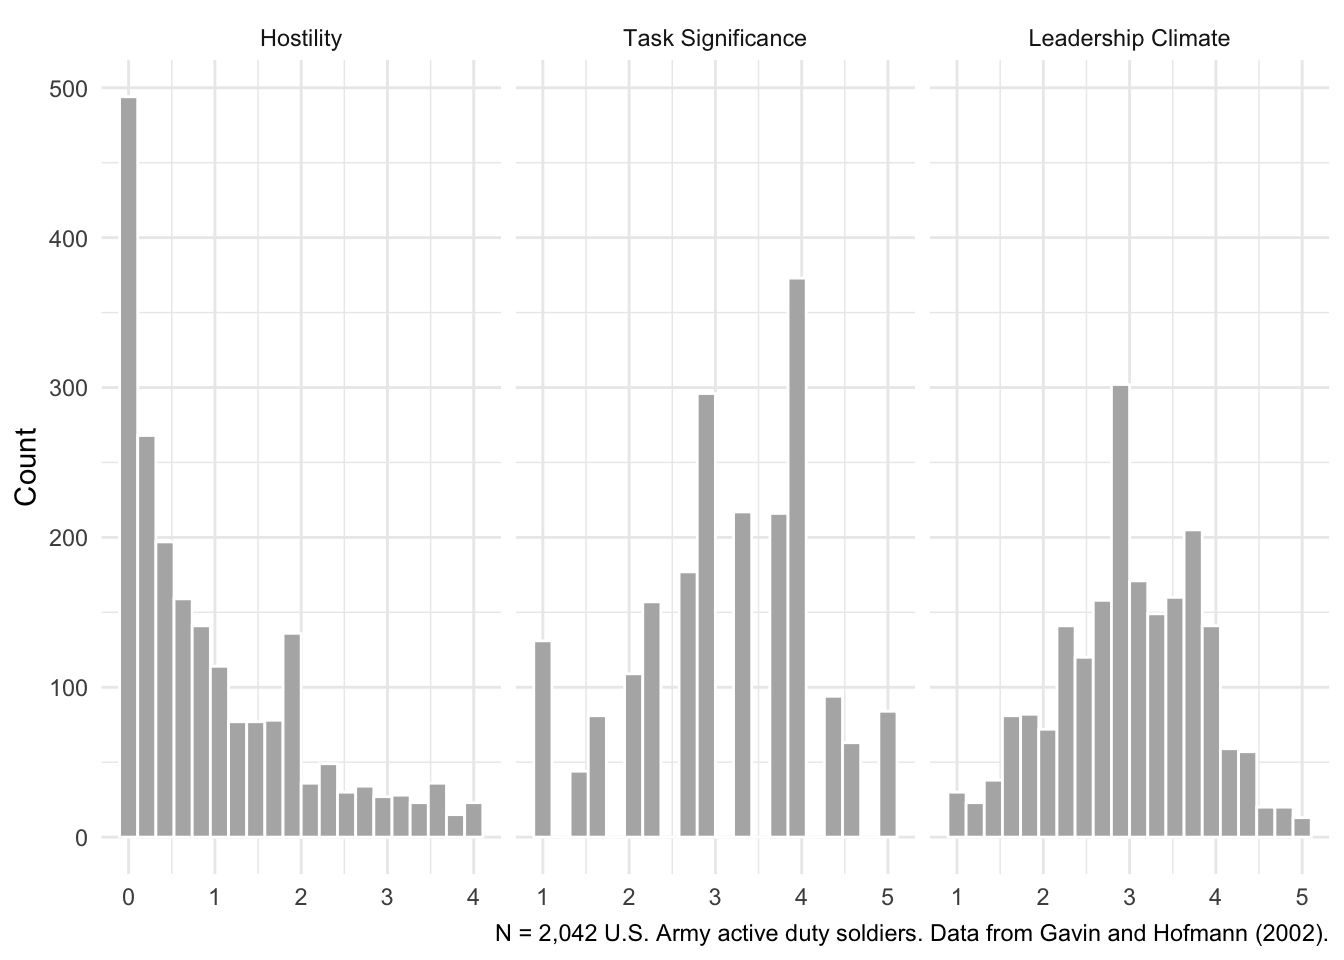
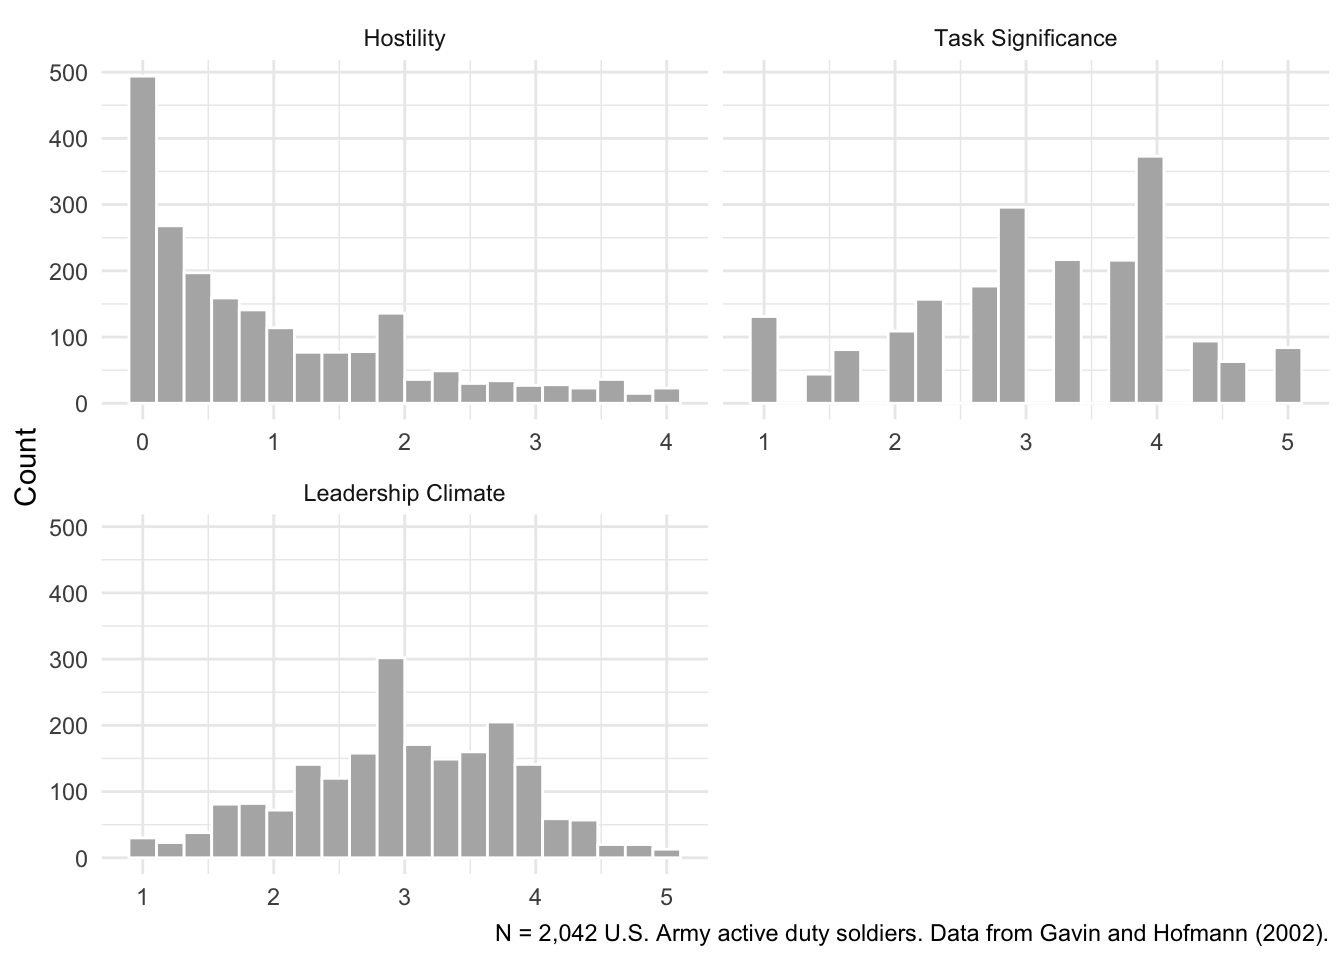
updated plot

diff --git a/docs/04-random-intercept.html b/docs/04-random-intercept.html
@@ -476,7 +476,7 @@ GHOSTILE  0.01</code></pre>
 <span>                            labels <span class="op">=</span> <span class="fu"><a href="https://rdrr.io/r/base/c.html">c</a></span><span class="op">(</span><span class="st">"Hostility"</span>, <span class="st">"Task Significance"</span>, <span class="st">"Leadership Climate"</span><span class="op">)</span><span class="op">)</span><span class="op">)</span> <span class="op"><a href="https://magrittr.tidyverse.org/reference/pipe.html">%&gt;%</a></span></span>
 <span>  <span class="fu"><a href="https://ggplot2.tidyverse.org/reference/ggplot.html">ggplot</a></span><span class="op">(</span><span class="fu"><a href="https://ggplot2.tidyverse.org/reference/aes.html">aes</a></span><span class="op">(</span>x <span class="op">=</span> <span class="va">value</span><span class="op">)</span><span class="op">)</span> <span class="op">+</span></span>
 <span>  <span class="fu"><a href="https://ggplot2.tidyverse.org/reference/geom_histogram.html">geom_histogram</a></span><span class="op">(</span>bins <span class="op">=</span> <span class="fl">20</span>, fill <span class="op">=</span> <span class="st">"grey70"</span>, color <span class="op">=</span> <span class="st">"white"</span><span class="op">)</span> <span class="op">+</span></span>
-<span>  <span class="fu"><a href="https://ggplot2.tidyverse.org/reference/facet_wrap.html">facet_wrap</a></span><span class="op">(</span><span class="op">~</span> <span class="va">variable</span>, scales <span class="op">=</span> <span class="st">"free_x"</span>, nrow <span class="op">=</span> <span class="fl">1</span><span class="op">)</span> <span class="op">+</span></span>
+<span>  <span class="fu"><a href="https://ggplot2.tidyverse.org/reference/facet_wrap.html">facet_wrap</a></span><span class="op">(</span><span class="op">~</span> <span class="va">variable</span>, scales <span class="op">=</span> <span class="st">"free_x"</span>, nrow <span class="op">=</span> <span class="fl">2</span><span class="op">)</span> <span class="op">+</span></span>
 <span>  <span class="fu"><a href="https://ggplot2.tidyverse.org/reference/labs.html">labs</a></span><span class="op">(</span>x <span class="op">=</span> <span class="cn">NULL</span>, y <span class="op">=</span> <span class="st">"Count"</span>,</span>
 <span>       caption <span class="op">=</span> <span class="st">"N = 2,042 U.S. Army active duty soldiers. Data from Gavin and Hofmann (2002)."</span><span class="op">)</span> <span class="op">+</span></span>
 <span>  <span class="fu"><a href="https://ggplot2.tidyverse.org/reference/ggtheme.html">theme_minimal</a></span><span class="op">(</span><span class="op">)</span></span></code><button title="Copy to Clipboard" class="code-copy-button"><i class="bi"></i></button></pre></div>
@@ -815,42 +815,42 @@ Signif. codes:  0 '***' 0.001 '**' 0.01 '*' 0.05 '.' 0.1 ' ' 1</code></pre>
 
     <script src="https://cdn.jsdelivr.net/gh/vincentarelbundock/tinytable@main/inst/tinytable.js"></script><script>
       // Create table-specific functions using external factory
-      const tableFns_1c4e0nozrsz871oxdirx = TinyTable.createTableFunctions("tinytable_1c4e0nozrsz871oxdirx");
+      const tableFns_mp9kzvpybpieqtfhqowl = TinyTable.createTableFunctions("tinytable_mp9kzvpybpieqtfhqowl");
       // tinytable span after
       window.addEventListener('load', function () {
           var cellsToStyle = [
             // tinytable style arrays after
-          { positions: [ { i: '25', j: 2 }, { i: '25', j: 3 }, { i: '25', j: 4 }, { i: '25', j: 5 }, { i: '25', j: 6 }, { i: '25', j: 7 } ], css_id: 'tinytable_css_jzqxgp5r2c31ucg3q48s',}, 
-          { positions: [ { i: '18', j: 2 }, { i: '18', j: 3 }, { i: '18', j: 4 }, { i: '18', j: 5 }, { i: '18', j: 6 }, { i: '18', j: 7 } ], css_id: 'tinytable_css_bvvqrrnloquqvd9onz6k',}, 
-          { positions: [ { i: '1', j: 2 }, { i: '2', j: 2 }, { i: '3', j: 2 }, { i: '4', j: 2 }, { i: '5', j: 2 }, { i: '6', j: 2 }, { i: '7', j: 2 }, { i: '8', j: 2 }, { i: '9', j: 2 }, { i: '10', j: 2 }, { i: '11', j: 2 }, { i: '12', j: 2 }, { i: '13', j: 2 }, { i: '14', j: 2 }, { i: '15', j: 2 }, { i: '16', j: 2 }, { i: '17', j: 2 }, { i: '19', j: 2 }, { i: '20', j: 2 }, { i: '21', j: 2 }, { i: '22', j: 2 }, { i: '23', j: 2 }, { i: '24', j: 2 }, { i: '1', j: 3 }, { i: '2', j: 3 }, { i: '3', j: 3 }, { i: '4', j: 3 }, { i: '5', j: 3 }, { i: '6', j: 3 }, { i: '7', j: 3 }, { i: '8', j: 3 }, { i: '9', j: 3 }, { i: '10', j: 3 }, { i: '11', j: 3 }, { i: '12', j: 3 }, { i: '13', j: 3 }, { i: '14', j: 3 }, { i: '15', j: 3 }, { i: '16', j: 3 }, { i: '17', j: 3 }, { i: '19', j: 3 }, { i: '20', j: 3 }, { i: '21', j: 3 }, { i: '22', j: 3 }, { i: '23', j: 3 }, { i: '24', j: 3 }, { i: '1', j: 4 }, { i: '2', j: 4 }, { i: '3', j: 4 }, { i: '4', j: 4 }, { i: '5', j: 4 }, { i: '6', j: 4 }, { i: '7', j: 4 }, { i: '8', j: 4 }, { i: '9', j: 4 }, { i: '10', j: 4 }, { i: '11', j: 4 }, { i: '12', j: 4 }, { i: '13', j: 4 }, { i: '14', j: 4 }, { i: '15', j: 4 }, { i: '16', j: 4 }, { i: '17', j: 4 }, { i: '19', j: 4 }, { i: '20', j: 4 }, { i: '21', j: 4 }, { i: '22', j: 4 }, { i: '23', j: 4 }, { i: '24', j: 4 }, { i: '1', j: 5 }, { i: '2', j: 5 }, { i: '3', j: 5 }, { i: '4', j: 5 }, { i: '5', j: 5 }, { i: '6', j: 5 }, { i: '7', j: 5 }, { i: '8', j: 5 }, { i: '9', j: 5 }, { i: '10', j: 5 }, { i: '11', j: 5 }, { i: '12', j: 5 }, { i: '13', j: 5 }, { i: '14', j: 5 }, { i: '15', j: 5 }, { i: '16', j: 5 }, { i: '17', j: 5 }, { i: '19', j: 5 }, { i: '20', j: 5 }, { i: '21', j: 5 }, { i: '22', j: 5 }, { i: '23', j: 5 }, { i: '24', j: 5 }, { i: '1', j: 6 }, { i: '2', j: 6 }, { i: '3', j: 6 }, { i: '4', j: 6 }, { i: '5', j: 6 }, { i: '6', j: 6 }, { i: '7', j: 6 }, { i: '8', j: 6 }, { i: '9', j: 6 }, { i: '10', j: 6 }, { i: '11', j: 6 }, { i: '12', j: 6 }, { i: '13', j: 6 }, { i: '14', j: 6 }, { i: '15', j: 6 }, { i: '16', j: 6 }, { i: '17', j: 6 }, { i: '19', j: 6 }, { i: '20', j: 6 }, { i: '21', j: 6 }, { i: '22', j: 6 }, { i: '23', j: 6 }, { i: '24', j: 6 }, { i: '1', j: 7 }, { i: '2', j: 7 }, { i: '3', j: 7 }, { i: '4', j: 7 }, { i: '5', j: 7 }, { i: '6', j: 7 }, { i: '7', j: 7 }, { i: '8', j: 7 }, { i: '9', j: 7 }, { i: '10', j: 7 }, { i: '11', j: 7 }, { i: '12', j: 7 }, { i: '13', j: 7 }, { i: '14', j: 7 }, { i: '15', j: 7 }, { i: '16', j: 7 }, { i: '17', j: 7 }, { i: '19', j: 7 }, { i: '20', j: 7 }, { i: '21', j: 7 }, { i: '22', j: 7 }, { i: '23', j: 7 }, { i: '24', j: 7 } ], css_id: 'tinytable_css_9n7nro1qf94fhn4i2drx',}, 
-          { positions: [ { i: '0', j: 2 }, { i: '0', j: 3 }, { i: '0', j: 4 }, { i: '0', j: 5 }, { i: '0', j: 6 }, { i: '0', j: 7 } ], css_id: 'tinytable_css_lkh1dx0119e689sqnfck',}, 
-          { positions: [ { i: '25', j: 1 } ], css_id: 'tinytable_css_ujua03z8e1vy4m3gv84w',}, 
-          { positions: [ { i: '18', j: 1 } ], css_id: 'tinytable_css_5r0eleyovc8awfze6lzc',}, 
-          { positions: [ { i: '1', j: 1 }, { i: '2', j: 1 }, { i: '3', j: 1 }, { i: '4', j: 1 }, { i: '5', j: 1 }, { i: '6', j: 1 }, { i: '7', j: 1 }, { i: '8', j: 1 }, { i: '9', j: 1 }, { i: '10', j: 1 }, { i: '11', j: 1 }, { i: '12', j: 1 }, { i: '13', j: 1 }, { i: '14', j: 1 }, { i: '15', j: 1 }, { i: '16', j: 1 }, { i: '17', j: 1 }, { i: '19', j: 1 }, { i: '20', j: 1 }, { i: '21', j: 1 }, { i: '22', j: 1 }, { i: '23', j: 1 }, { i: '24', j: 1 } ], css_id: 'tinytable_css_ne53nl9ewnasup8t2qvj',}, 
-          { positions: [ { i: '0', j: 1 } ], css_id: 'tinytable_css_51mf6ketp7exxpj74a9w',}, 
+          { positions: [ { i: '25', j: 2 }, { i: '25', j: 3 }, { i: '25', j: 4 }, { i: '25', j: 5 }, { i: '25', j: 6 }, { i: '25', j: 7 } ], css_id: 'tinytable_css_aes35den7bmuetalw7k5',}, 
+          { positions: [ { i: '18', j: 2 }, { i: '18', j: 3 }, { i: '18', j: 4 }, { i: '18', j: 5 }, { i: '18', j: 6 }, { i: '18', j: 7 } ], css_id: 'tinytable_css_3dn8nzv337fe9pwkq0tj',}, 
+          { positions: [ { i: '1', j: 2 }, { i: '2', j: 2 }, { i: '3', j: 2 }, { i: '4', j: 2 }, { i: '5', j: 2 }, { i: '6', j: 2 }, { i: '7', j: 2 }, { i: '8', j: 2 }, { i: '9', j: 2 }, { i: '10', j: 2 }, { i: '11', j: 2 }, { i: '12', j: 2 }, { i: '13', j: 2 }, { i: '14', j: 2 }, { i: '15', j: 2 }, { i: '16', j: 2 }, { i: '17', j: 2 }, { i: '19', j: 2 }, { i: '20', j: 2 }, { i: '21', j: 2 }, { i: '22', j: 2 }, { i: '23', j: 2 }, { i: '24', j: 2 }, { i: '1', j: 3 }, { i: '2', j: 3 }, { i: '3', j: 3 }, { i: '4', j: 3 }, { i: '5', j: 3 }, { i: '6', j: 3 }, { i: '7', j: 3 }, { i: '8', j: 3 }, { i: '9', j: 3 }, { i: '10', j: 3 }, { i: '11', j: 3 }, { i: '12', j: 3 }, { i: '13', j: 3 }, { i: '14', j: 3 }, { i: '15', j: 3 }, { i: '16', j: 3 }, { i: '17', j: 3 }, { i: '19', j: 3 }, { i: '20', j: 3 }, { i: '21', j: 3 }, { i: '22', j: 3 }, { i: '23', j: 3 }, { i: '24', j: 3 }, { i: '1', j: 4 }, { i: '2', j: 4 }, { i: '3', j: 4 }, { i: '4', j: 4 }, { i: '5', j: 4 }, { i: '6', j: 4 }, { i: '7', j: 4 }, { i: '8', j: 4 }, { i: '9', j: 4 }, { i: '10', j: 4 }, { i: '11', j: 4 }, { i: '12', j: 4 }, { i: '13', j: 4 }, { i: '14', j: 4 }, { i: '15', j: 4 }, { i: '16', j: 4 }, { i: '17', j: 4 }, { i: '19', j: 4 }, { i: '20', j: 4 }, { i: '21', j: 4 }, { i: '22', j: 4 }, { i: '23', j: 4 }, { i: '24', j: 4 }, { i: '1', j: 5 }, { i: '2', j: 5 }, { i: '3', j: 5 }, { i: '4', j: 5 }, { i: '5', j: 5 }, { i: '6', j: 5 }, { i: '7', j: 5 }, { i: '8', j: 5 }, { i: '9', j: 5 }, { i: '10', j: 5 }, { i: '11', j: 5 }, { i: '12', j: 5 }, { i: '13', j: 5 }, { i: '14', j: 5 }, { i: '15', j: 5 }, { i: '16', j: 5 }, { i: '17', j: 5 }, { i: '19', j: 5 }, { i: '20', j: 5 }, { i: '21', j: 5 }, { i: '22', j: 5 }, { i: '23', j: 5 }, { i: '24', j: 5 }, { i: '1', j: 6 }, { i: '2', j: 6 }, { i: '3', j: 6 }, { i: '4', j: 6 }, { i: '5', j: 6 }, { i: '6', j: 6 }, { i: '7', j: 6 }, { i: '8', j: 6 }, { i: '9', j: 6 }, { i: '10', j: 6 }, { i: '11', j: 6 }, { i: '12', j: 6 }, { i: '13', j: 6 }, { i: '14', j: 6 }, { i: '15', j: 6 }, { i: '16', j: 6 }, { i: '17', j: 6 }, { i: '19', j: 6 }, { i: '20', j: 6 }, { i: '21', j: 6 }, { i: '22', j: 6 }, { i: '23', j: 6 }, { i: '24', j: 6 }, { i: '1', j: 7 }, { i: '2', j: 7 }, { i: '3', j: 7 }, { i: '4', j: 7 }, { i: '5', j: 7 }, { i: '6', j: 7 }, { i: '7', j: 7 }, { i: '8', j: 7 }, { i: '9', j: 7 }, { i: '10', j: 7 }, { i: '11', j: 7 }, { i: '12', j: 7 }, { i: '13', j: 7 }, { i: '14', j: 7 }, { i: '15', j: 7 }, { i: '16', j: 7 }, { i: '17', j: 7 }, { i: '19', j: 7 }, { i: '20', j: 7 }, { i: '21', j: 7 }, { i: '22', j: 7 }, { i: '23', j: 7 }, { i: '24', j: 7 } ], css_id: 'tinytable_css_mtg0911m7uj2qkp87wfp',}, 
+          { positions: [ { i: '0', j: 2 }, { i: '0', j: 3 }, { i: '0', j: 4 }, { i: '0', j: 5 }, { i: '0', j: 6 }, { i: '0', j: 7 } ], css_id: 'tinytable_css_1yfpsmw1qcy8jinbnule',}, 
+          { positions: [ { i: '25', j: 1 } ], css_id: 'tinytable_css_85ikwwdncubpi3e3p0hj',}, 
+          { positions: [ { i: '18', j: 1 } ], css_id: 'tinytable_css_lqcvkttf2gtk1hrxlj09',}, 
+          { positions: [ { i: '1', j: 1 }, { i: '2', j: 1 }, { i: '3', j: 1 }, { i: '4', j: 1 }, { i: '5', j: 1 }, { i: '6', j: 1 }, { i: '7', j: 1 }, { i: '8', j: 1 }, { i: '9', j: 1 }, { i: '10', j: 1 }, { i: '11', j: 1 }, { i: '12', j: 1 }, { i: '13', j: 1 }, { i: '14', j: 1 }, { i: '15', j: 1 }, { i: '16', j: 1 }, { i: '17', j: 1 }, { i: '19', j: 1 }, { i: '20', j: 1 }, { i: '21', j: 1 }, { i: '22', j: 1 }, { i: '23', j: 1 }, { i: '24', j: 1 } ], css_id: 'tinytable_css_grc27mmvuzfnhu1fxivm',}, 
+          { positions: [ { i: '0', j: 1 } ], css_id: 'tinytable_css_t1yldeeleziz17xsf5e6',}, 
           ];
 
           // Loop over the arrays to style the cells
           cellsToStyle.forEach(function (group) {
               group.positions.forEach(function (cell) {
-                  tableFns_1c4e0nozrsz871oxdirx.styleCell(cell.i, cell.j, group.css_id);
+                  tableFns_mp9kzvpybpieqtfhqowl.styleCell(cell.i, cell.j, group.css_id);
               });
           });
       });
     </script><link rel="stylesheet" href="https://cdn.jsdelivr.net/gh/vincentarelbundock/tinytable@main/inst/tinytable.css">
 <style>
     /* tinytable css entries after */
-    #tinytable_1c4e0nozrsz871oxdirx td.tinytable_css_jzqxgp5r2c31ucg3q48s, #tinytable_1c4e0nozrsz871oxdirx th.tinytable_css_jzqxgp5r2c31ucg3q48s {  position: relative; --border-bottom: 1; --border-left: 0; --border-right: 0; --border-top: 0; --line-color-bottom: var(--tt-line-color); --line-color-left: var(--tt-line-color); --line-color-right: var(--tt-line-color); --line-color-top: var(--tt-line-color); --line-width-bottom: 0.08em; --line-width-left: 0.1em; --line-width-right: 0.1em; --line-width-top: 0.1em; --line-type-bottom: solid; --line-type-left: solid; --line-type-right: solid; --line-type-top: solid; --trim-bottom-left: 0%; --trim-bottom-right: 0%; --trim-left-bottom: 0%; --trim-left-top: 0%; --trim-right-bottom: 0%; --trim-right-top: 0%; --trim-top-left: 0%; --trim-top-right: 0%; ; text-align: center }
-    #tinytable_1c4e0nozrsz871oxdirx td.tinytable_css_bvvqrrnloquqvd9onz6k, #tinytable_1c4e0nozrsz871oxdirx th.tinytable_css_bvvqrrnloquqvd9onz6k {  position: relative; --border-bottom: 1; --border-left: 0; --border-right: 0; --border-top: 0; --line-color-bottom: var(--tt-line-color); --line-color-left: var(--tt-line-color); --line-color-right: var(--tt-line-color); --line-color-top: var(--tt-line-color); --line-width-bottom: 0.05em; --line-width-left: 0.1em; --line-width-right: 0.1em; --line-width-top: 0.1em; --line-type-bottom: solid; --line-type-left: solid; --line-type-right: solid; --line-type-top: solid; --trim-bottom-left: 0%; --trim-bottom-right: 0%; --trim-left-bottom: 0%; --trim-left-top: 0%; --trim-right-bottom: 0%; --trim-right-top: 0%; --trim-top-left: 0%; --trim-top-right: 0%; ; text-align: center }
-    #tinytable_1c4e0nozrsz871oxdirx td.tinytable_css_9n7nro1qf94fhn4i2drx, #tinytable_1c4e0nozrsz871oxdirx th.tinytable_css_9n7nro1qf94fhn4i2drx { text-align: center }
-    #tinytable_1c4e0nozrsz871oxdirx td.tinytable_css_lkh1dx0119e689sqnfck, #tinytable_1c4e0nozrsz871oxdirx th.tinytable_css_lkh1dx0119e689sqnfck {  position: relative; --border-bottom: 1; --border-left: 0; --border-right: 0; --border-top: 1; --line-color-bottom: var(--tt-line-color); --line-color-left: var(--tt-line-color); --line-color-right: var(--tt-line-color); --line-color-top: var(--tt-line-color); --line-width-bottom: 0.05em; --line-width-left: 0.1em; --line-width-right: 0.1em; --line-width-top: 0.08em; --line-type-bottom: solid; --line-type-left: solid; --line-type-right: solid; --line-type-top: solid; --trim-bottom-left: 0%; --trim-bottom-right: 0%; --trim-left-bottom: 0%; --trim-left-top: 0%; --trim-right-bottom: 0%; --trim-right-top: 0%; --trim-top-left: 0%; --trim-top-right: 0%; ; text-align: center }
-    #tinytable_1c4e0nozrsz871oxdirx td.tinytable_css_ujua03z8e1vy4m3gv84w, #tinytable_1c4e0nozrsz871oxdirx th.tinytable_css_ujua03z8e1vy4m3gv84w {  position: relative; --border-bottom: 1; --border-left: 0; --border-right: 0; --border-top: 0; --line-color-bottom: var(--tt-line-color); --line-color-left: var(--tt-line-color); --line-color-right: var(--tt-line-color); --line-color-top: var(--tt-line-color); --line-width-bottom: 0.08em; --line-width-left: 0.1em; --line-width-right: 0.1em; --line-width-top: 0.1em; --line-type-bottom: solid; --line-type-left: solid; --line-type-right: solid; --line-type-top: solid; --trim-bottom-left: 0%; --trim-bottom-right: 0%; --trim-left-bottom: 0%; --trim-left-top: 0%; --trim-right-bottom: 0%; --trim-right-top: 0%; --trim-top-left: 0%; --trim-top-right: 0%; ; text-align: left }
-    #tinytable_1c4e0nozrsz871oxdirx td.tinytable_css_5r0eleyovc8awfze6lzc, #tinytable_1c4e0nozrsz871oxdirx th.tinytable_css_5r0eleyovc8awfze6lzc {  position: relative; --border-bottom: 1; --border-left: 0; --border-right: 0; --border-top: 0; --line-color-bottom: var(--tt-line-color); --line-color-left: var(--tt-line-color); --line-color-right: var(--tt-line-color); --line-color-top: var(--tt-line-color); --line-width-bottom: 0.05em; --line-width-left: 0.1em; --line-width-right: 0.1em; --line-width-top: 0.1em; --line-type-bottom: solid; --line-type-left: solid; --line-type-right: solid; --line-type-top: solid; --trim-bottom-left: 0%; --trim-bottom-right: 0%; --trim-left-bottom: 0%; --trim-left-top: 0%; --trim-right-bottom: 0%; --trim-right-top: 0%; --trim-top-left: 0%; --trim-top-right: 0%; ; text-align: left }
-    #tinytable_1c4e0nozrsz871oxdirx td.tinytable_css_ne53nl9ewnasup8t2qvj, #tinytable_1c4e0nozrsz871oxdirx th.tinytable_css_ne53nl9ewnasup8t2qvj { text-align: left }
-    #tinytable_1c4e0nozrsz871oxdirx td.tinytable_css_51mf6ketp7exxpj74a9w, #tinytable_1c4e0nozrsz871oxdirx th.tinytable_css_51mf6ketp7exxpj74a9w {  position: relative; --border-bottom: 1; --border-left: 0; --border-right: 0; --border-top: 1; --line-color-bottom: var(--tt-line-color); --line-color-left: var(--tt-line-color); --line-color-right: var(--tt-line-color); --line-color-top: var(--tt-line-color); --line-width-bottom: 0.05em; --line-width-left: 0.1em; --line-width-right: 0.1em; --line-width-top: 0.08em; --line-type-bottom: solid; --line-type-left: solid; --line-type-right: solid; --line-type-top: solid; --trim-bottom-left: 0%; --trim-bottom-right: 0%; --trim-left-bottom: 0%; --trim-left-top: 0%; --trim-right-bottom: 0%; --trim-right-top: 0%; --trim-top-left: 0%; --trim-top-right: 0%; ; text-align: left }
+    #tinytable_mp9kzvpybpieqtfhqowl td.tinytable_css_aes35den7bmuetalw7k5, #tinytable_mp9kzvpybpieqtfhqowl th.tinytable_css_aes35den7bmuetalw7k5 {  position: relative; --border-bottom: 1; --border-left: 0; --border-right: 0; --border-top: 0; --line-color-bottom: var(--tt-line-color); --line-color-left: var(--tt-line-color); --line-color-right: var(--tt-line-color); --line-color-top: var(--tt-line-color); --line-width-bottom: 0.08em; --line-width-left: 0.1em; --line-width-right: 0.1em; --line-width-top: 0.1em; --line-type-bottom: solid; --line-type-left: solid; --line-type-right: solid; --line-type-top: solid; --trim-bottom-left: 0%; --trim-bottom-right: 0%; --trim-left-bottom: 0%; --trim-left-top: 0%; --trim-right-bottom: 0%; --trim-right-top: 0%; --trim-top-left: 0%; --trim-top-right: 0%; ; text-align: center }
+    #tinytable_mp9kzvpybpieqtfhqowl td.tinytable_css_3dn8nzv337fe9pwkq0tj, #tinytable_mp9kzvpybpieqtfhqowl th.tinytable_css_3dn8nzv337fe9pwkq0tj {  position: relative; --border-bottom: 1; --border-left: 0; --border-right: 0; --border-top: 0; --line-color-bottom: var(--tt-line-color); --line-color-left: var(--tt-line-color); --line-color-right: var(--tt-line-color); --line-color-top: var(--tt-line-color); --line-width-bottom: 0.05em; --line-width-left: 0.1em; --line-width-right: 0.1em; --line-width-top: 0.1em; --line-type-bottom: solid; --line-type-left: solid; --line-type-right: solid; --line-type-top: solid; --trim-bottom-left: 0%; --trim-bottom-right: 0%; --trim-left-bottom: 0%; --trim-left-top: 0%; --trim-right-bottom: 0%; --trim-right-top: 0%; --trim-top-left: 0%; --trim-top-right: 0%; ; text-align: center }
+    #tinytable_mp9kzvpybpieqtfhqowl td.tinytable_css_mtg0911m7uj2qkp87wfp, #tinytable_mp9kzvpybpieqtfhqowl th.tinytable_css_mtg0911m7uj2qkp87wfp { text-align: center }
+    #tinytable_mp9kzvpybpieqtfhqowl td.tinytable_css_1yfpsmw1qcy8jinbnule, #tinytable_mp9kzvpybpieqtfhqowl th.tinytable_css_1yfpsmw1qcy8jinbnule {  position: relative; --border-bottom: 1; --border-left: 0; --border-right: 0; --border-top: 1; --line-color-bottom: var(--tt-line-color); --line-color-left: var(--tt-line-color); --line-color-right: var(--tt-line-color); --line-color-top: var(--tt-line-color); --line-width-bottom: 0.05em; --line-width-left: 0.1em; --line-width-right: 0.1em; --line-width-top: 0.08em; --line-type-bottom: solid; --line-type-left: solid; --line-type-right: solid; --line-type-top: solid; --trim-bottom-left: 0%; --trim-bottom-right: 0%; --trim-left-bottom: 0%; --trim-left-top: 0%; --trim-right-bottom: 0%; --trim-right-top: 0%; --trim-top-left: 0%; --trim-top-right: 0%; ; text-align: center }
+    #tinytable_mp9kzvpybpieqtfhqowl td.tinytable_css_85ikwwdncubpi3e3p0hj, #tinytable_mp9kzvpybpieqtfhqowl th.tinytable_css_85ikwwdncubpi3e3p0hj {  position: relative; --border-bottom: 1; --border-left: 0; --border-right: 0; --border-top: 0; --line-color-bottom: var(--tt-line-color); --line-color-left: var(--tt-line-color); --line-color-right: var(--tt-line-color); --line-color-top: var(--tt-line-color); --line-width-bottom: 0.08em; --line-width-left: 0.1em; --line-width-right: 0.1em; --line-width-top: 0.1em; --line-type-bottom: solid; --line-type-left: solid; --line-type-right: solid; --line-type-top: solid; --trim-bottom-left: 0%; --trim-bottom-right: 0%; --trim-left-bottom: 0%; --trim-left-top: 0%; --trim-right-bottom: 0%; --trim-right-top: 0%; --trim-top-left: 0%; --trim-top-right: 0%; ; text-align: left }
+    #tinytable_mp9kzvpybpieqtfhqowl td.tinytable_css_lqcvkttf2gtk1hrxlj09, #tinytable_mp9kzvpybpieqtfhqowl th.tinytable_css_lqcvkttf2gtk1hrxlj09 {  position: relative; --border-bottom: 1; --border-left: 0; --border-right: 0; --border-top: 0; --line-color-bottom: var(--tt-line-color); --line-color-left: var(--tt-line-color); --line-color-right: var(--tt-line-color); --line-color-top: var(--tt-line-color); --line-width-bottom: 0.05em; --line-width-left: 0.1em; --line-width-right: 0.1em; --line-width-top: 0.1em; --line-type-bottom: solid; --line-type-left: solid; --line-type-right: solid; --line-type-top: solid; --trim-bottom-left: 0%; --trim-bottom-right: 0%; --trim-left-bottom: 0%; --trim-left-top: 0%; --trim-right-bottom: 0%; --trim-right-top: 0%; --trim-top-left: 0%; --trim-top-right: 0%; ; text-align: left }
+    #tinytable_mp9kzvpybpieqtfhqowl td.tinytable_css_grc27mmvuzfnhu1fxivm, #tinytable_mp9kzvpybpieqtfhqowl th.tinytable_css_grc27mmvuzfnhu1fxivm { text-align: left }
+    #tinytable_mp9kzvpybpieqtfhqowl td.tinytable_css_t1yldeeleziz17xsf5e6, #tinytable_mp9kzvpybpieqtfhqowl th.tinytable_css_t1yldeeleziz17xsf5e6 {  position: relative; --border-bottom: 1; --border-left: 0; --border-right: 0; --border-top: 1; --line-color-bottom: var(--tt-line-color); --line-color-left: var(--tt-line-color); --line-color-right: var(--tt-line-color); --line-color-top: var(--tt-line-color); --line-width-bottom: 0.05em; --line-width-left: 0.1em; --line-width-right: 0.1em; --line-width-top: 0.08em; --line-type-bottom: solid; --line-type-left: solid; --line-type-right: solid; --line-type-top: solid; --trim-bottom-left: 0%; --trim-bottom-right: 0%; --trim-left-bottom: 0%; --trim-left-top: 0%; --trim-right-bottom: 0%; --trim-right-top: 0%; --trim-top-left: 0%; --trim-top-right: 0%; ; text-align: left }
     </style>
 <div class="container">
-      <table class="tinytable" id="tinytable_1c4e0nozrsz871oxdirx" style="width: auto; margin-left: auto; margin-right: auto;" data-quarto-disable-processing="true">
+      <table class="tinytable" id="tinytable_mp9kzvpybpieqtfhqowl" style="width: auto; margin-left: auto; margin-right: auto;" data-quarto-disable-processing="true">
 <thead><tr>
 <th scope="col" data-row="0" data-col="1"> </th>
                 <th scope="col" data-row="0" data-col="2">(1)</th>
@@ -1479,7 +1479,7 @@ window.document.addEventListener("DOMContentLoaded", function (event) {
 <span id="cb33-82"><a href="#cb33-82" aria-hidden="true" tabindex="-1"></a>                            <span class="at">labels =</span> <span class="fu">c</span>(<span class="st">"Hostility"</span>, <span class="st">"Task Significance"</span>, <span class="st">"Leadership Climate"</span>))) <span class="sc">%&gt;%</span></span>
 <span id="cb33-83"><a href="#cb33-83" aria-hidden="true" tabindex="-1"></a>  <span class="fu">ggplot</span>(<span class="fu">aes</span>(<span class="at">x =</span> value)) <span class="sc">+</span></span>
 <span id="cb33-84"><a href="#cb33-84" aria-hidden="true" tabindex="-1"></a>  <span class="fu">geom_histogram</span>(<span class="at">bins =</span> <span class="dv">20</span>, <span class="at">fill =</span> <span class="st">"grey70"</span>, <span class="at">color =</span> <span class="st">"white"</span>) <span class="sc">+</span></span>
-<span id="cb33-85"><a href="#cb33-85" aria-hidden="true" tabindex="-1"></a>  <span class="fu">facet_wrap</span>(<span class="sc">~</span> variable, <span class="at">scales =</span> <span class="st">"free_x"</span>, <span class="at">nrow =</span> <span class="dv">1</span>) <span class="sc">+</span></span>
+<span id="cb33-85"><a href="#cb33-85" aria-hidden="true" tabindex="-1"></a>  <span class="fu">facet_wrap</span>(<span class="sc">~</span> variable, <span class="at">scales =</span> <span class="st">"free_x"</span>, <span class="at">nrow =</span> <span class="dv">2</span>) <span class="sc">+</span></span>
 <span id="cb33-86"><a href="#cb33-86" aria-hidden="true" tabindex="-1"></a>  <span class="fu">labs</span>(<span class="at">x =</span> <span class="cn">NULL</span>, <span class="at">y =</span> <span class="st">"Count"</span>,</span>
 <span id="cb33-87"><a href="#cb33-87" aria-hidden="true" tabindex="-1"></a>       <span class="at">caption =</span> <span class="st">"N = 2,042 U.S. Army active duty soldiers. Data from Gavin and Hofmann (2002)."</span>) <span class="sc">+</span></span>
 <span id="cb33-88"><a href="#cb33-88" aria-hidden="true" tabindex="-1"></a>  <span class="fu">theme_minimal</span>()</span>
